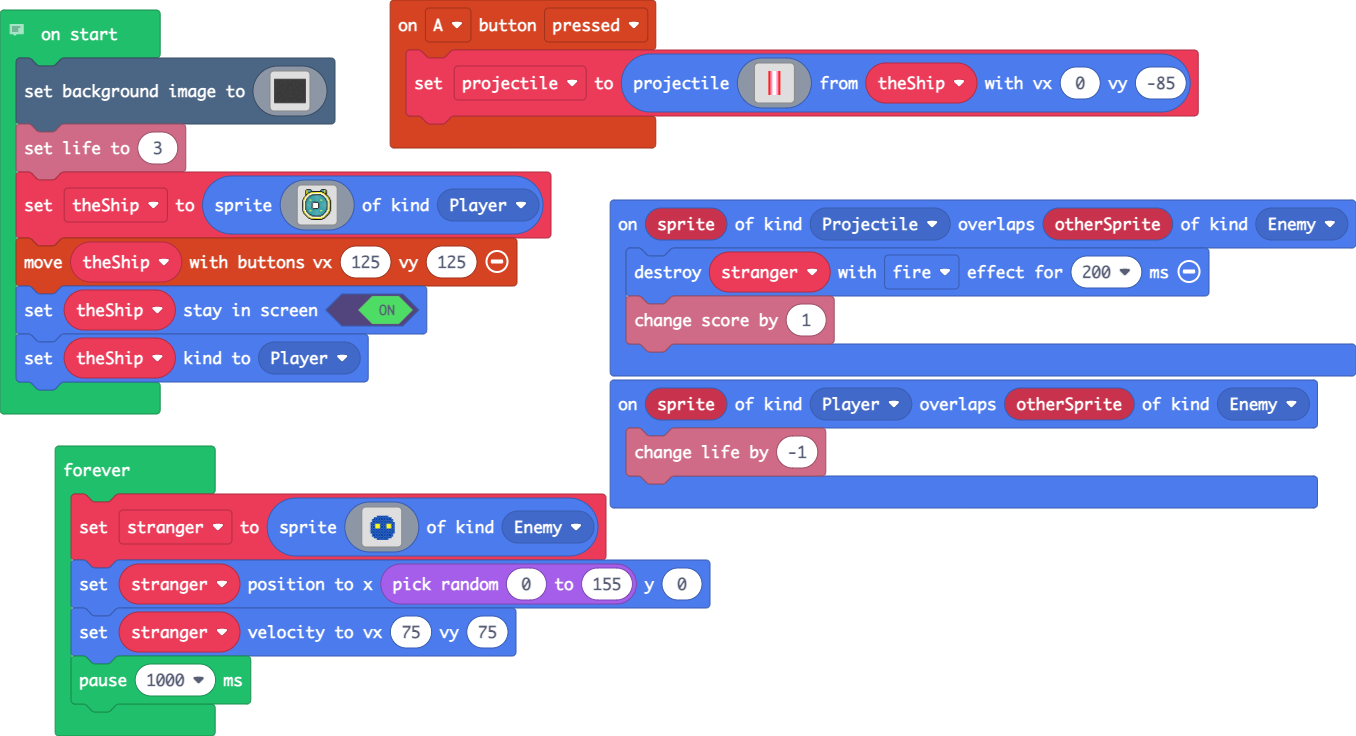
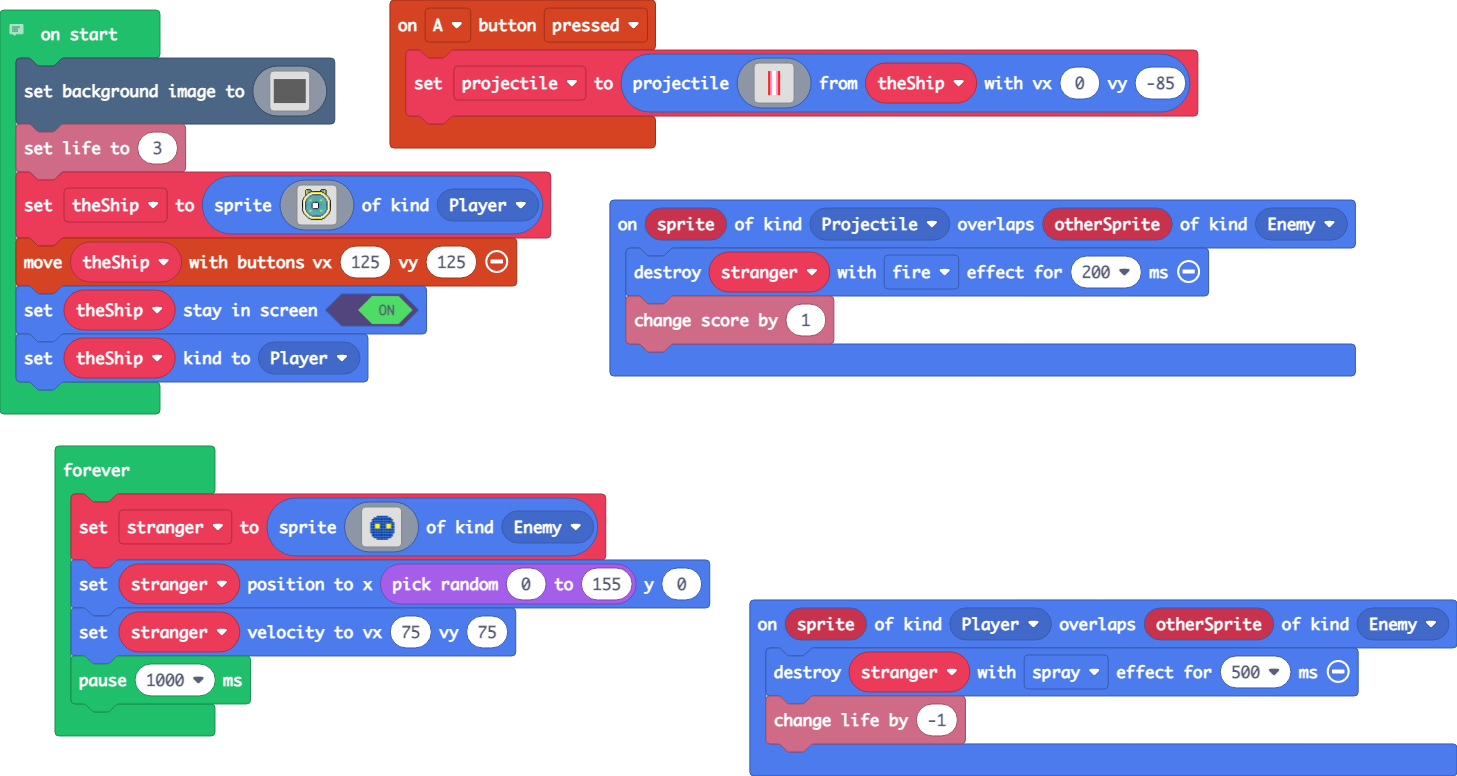
fixed lives not working

diff --git a/main.ts b/main.ts
@@ -23,6 +23,7 @@ sprites.onOverlap(SpriteKind.Projectile, SpriteKind.Enemy, function (sprite, oth
     info.changeScoreBy(1)
 })
 sprites.onOverlap(SpriteKind.Player, SpriteKind.Enemy, function (sprite, otherSprite) {
+    stranger.destroy(effects.spray, 500)
     info.changeLifeBy(-1)
 })
 // Don't forget to comment your code as you work!
